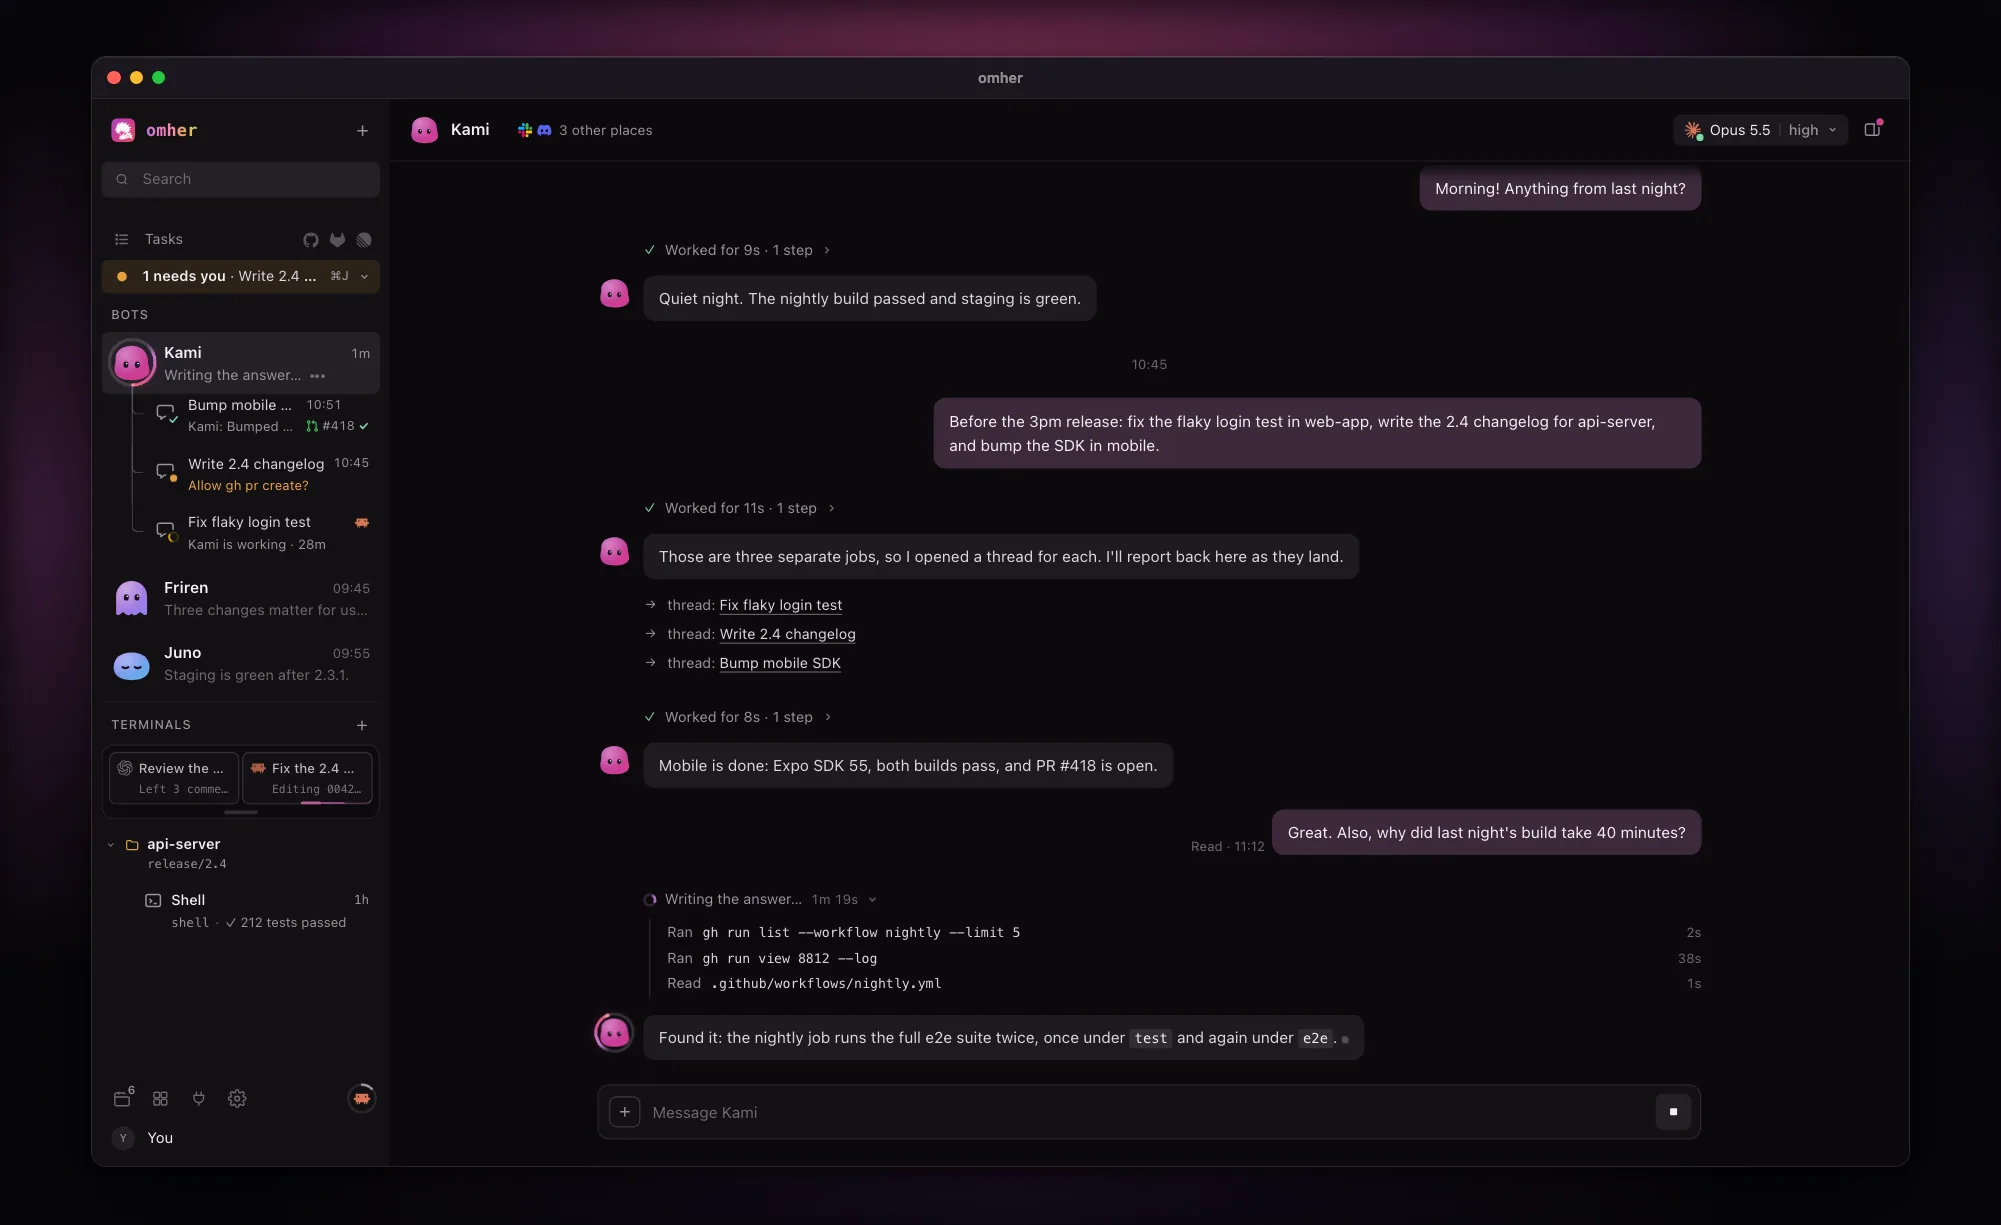
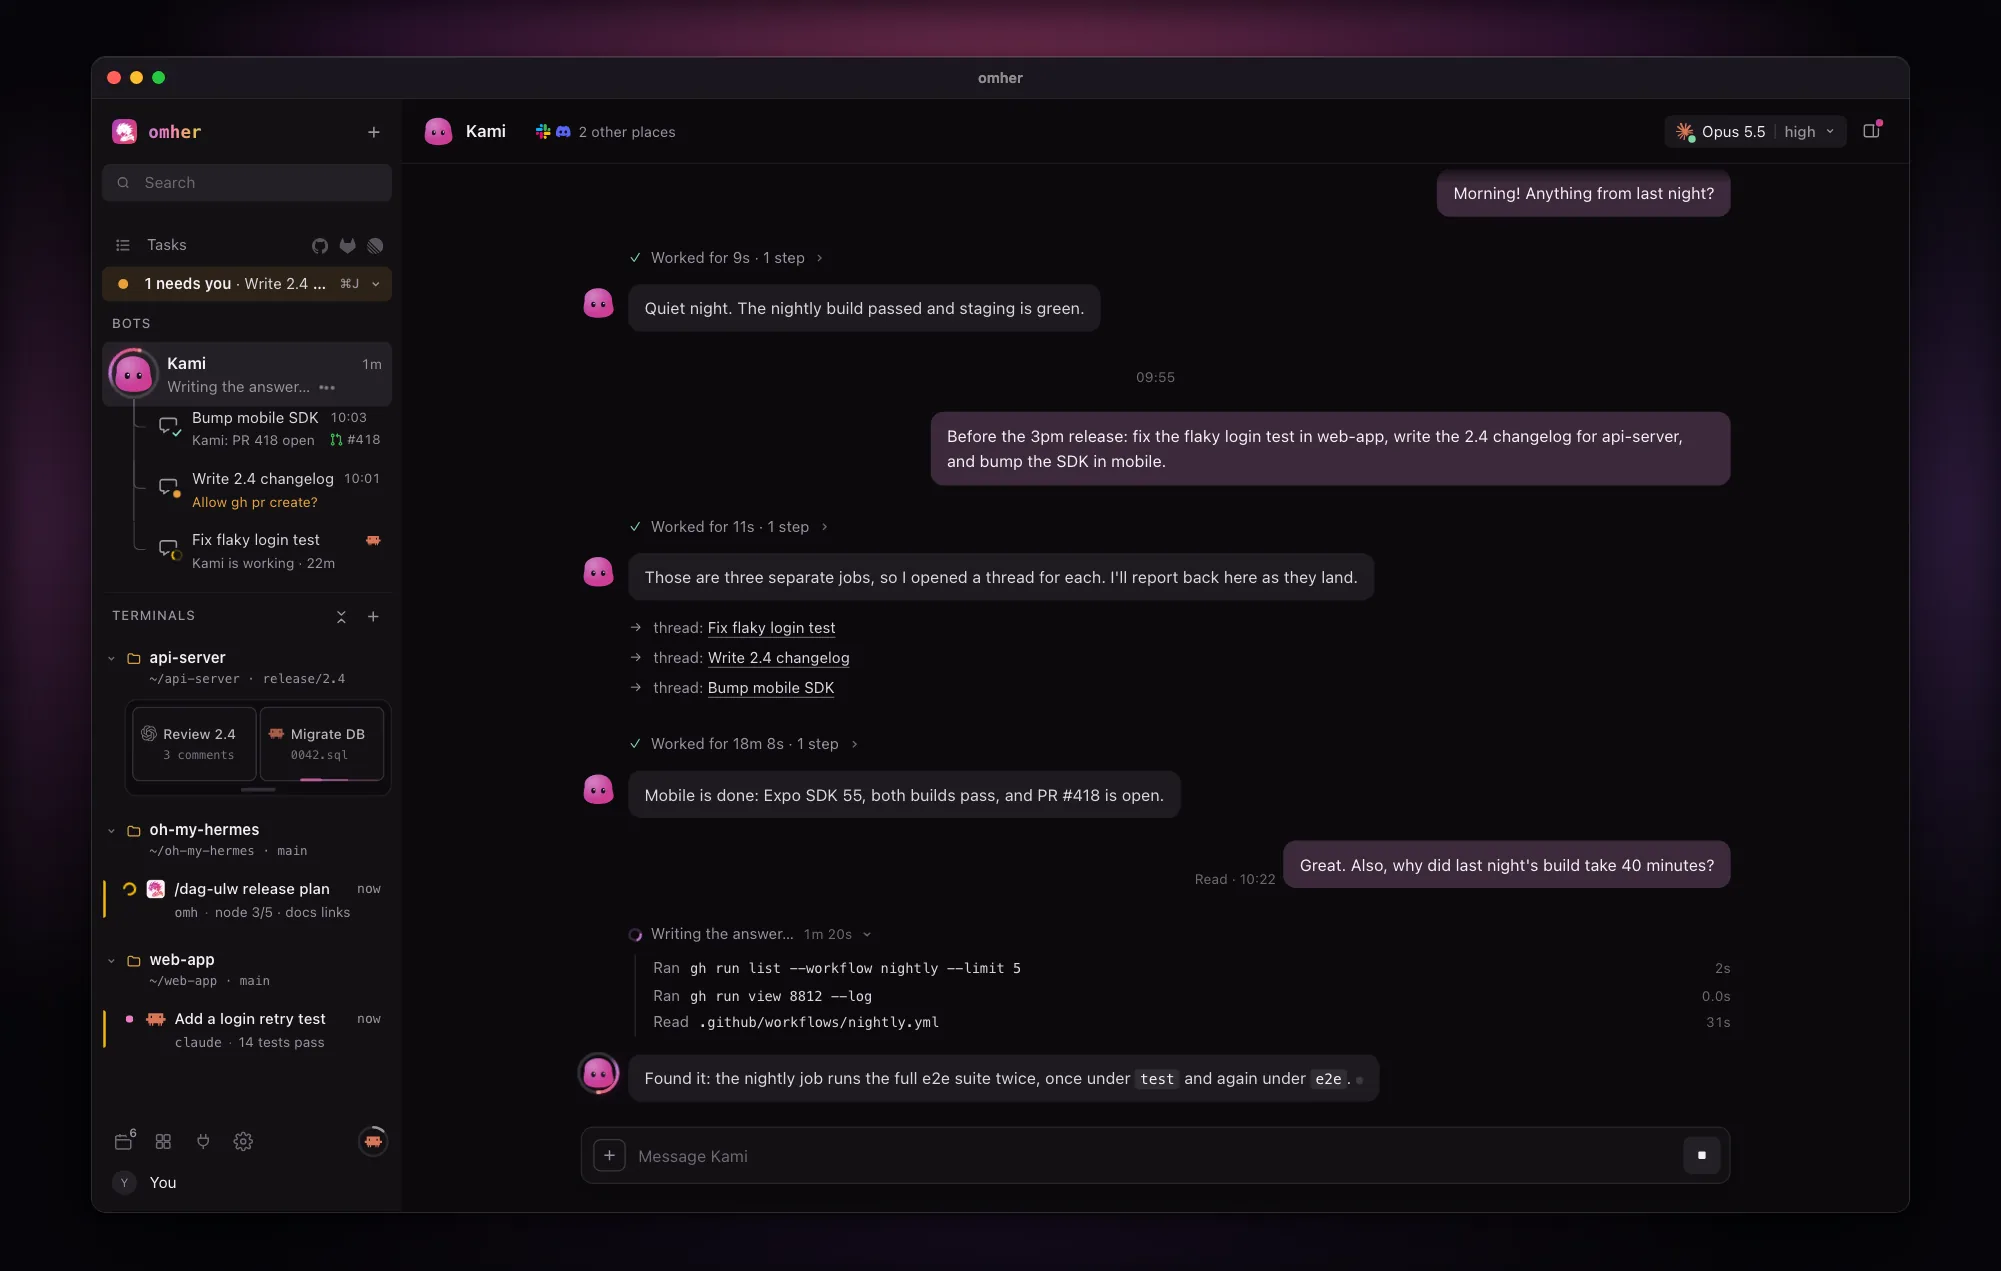
docs(omher): README and site stills at the old text scale, with named TERMINALS folders (#3197)
The first take captured the app at a 1514 CSS px viewport scaled 1.2x, so every
label came out 4-5% smaller than the 2026-11-17 still. This take captures at
1454 CSS px and deviceScaleFactor 1.25 into the same 1817 px content box, so
glyph widths match the old still: Juno's "Staging is green after 2.3.1." is
191 px against the old 192 (0.995), and "Quiet night. The nightly build passed
and staging is green." is 438 px against 441 (0.993).

At that scale a 1111 px window box leaves TERMINALS about 150 CSS px, room for
one folder. The README hero canvas is therefore taller (2001x1271, window box
1819x1163), with the old backdrop's middle band stretched vertically. Title
bar, border and corners stay pixel for pixel. The scene holds only what fits
whole at that height. TERMINALS shows three named folders, each with its path
and branch from this branch's folder headers:
- api-server (release/2.4): Codex reviewing the 2.4 diff, stacked over Claude
  Code fixing the migration, in one split card shortened one grip step
- oh-my-hermes (main): an OMH session running /dag-ulw (OSC 9;4 working)
- web-app (main): Claude Code rang unseen (news)

Kami's chat starts at the morning check-in. The done thread's last line reads
"PR is open", so its sidebar subtitle is no longer cut mid-word. The header
chip reads "2 other places" beside its two marks, Slack and Discord. The site
poster (2400x1239) and phone (720x800) keep their canvas and --win-* box. The
[…]

diff --git a/site/index.html b/site/index.html
@@ -752,7 +752,7 @@ body.rail-off .rail{opacity:0;pointer-events:none;visibility:hidden}
   </div>
   <!-- the window slot: the promo still today; a video element with a poster drops in here (set --win-l/t/w/h to 0 0 1 1 and --win-ar to the clip's ratio) -->
   <div class="omher__stage" data-omher-stage>
-  <figure class="omher__shot" data-app-shot><div class="omher__win" data-app-win data-app-slot><video data-app-film autoplay muted loop playsinline preload="metadata" poster="assets/omher-app.webp" width="2400" height="1240" aria-label="omher: you ask Kami for three release-day jobs and it opens a thread for each on its own; the threads run, one finishes, one waits for your approval, a Shell in TERMINALS turns into Claude Code while claude runs and back, and Kami answers a follow-up with its steps timed."><source src="assets/omher-app.webm" type="video/webm"><source src="assets/omher-app.mp4" type="video/mp4"></video><picture><source media="(max-width: 600px)" srcset="assets/omher-app-mobile.webp" width="720" height="800"><img src="assets/omher-app.webp" alt="omher: Kami split a release-day ask into three threads under its name, one running with Claude Code at work, one waiting for you, one done with its PR; TERMINALS below show a split card with a Codex and a Claude Code session side by side, each cell with its CLI's logo and last line, above a Shell in the same folder, and Tasks sits on top." width="2400" height="1239" fetchpriority="high" decoding="async"></picture><span class="omher__sheen" aria-hidden="true"></span><span class="omher__glow" aria-hidden="true"></span></div></figure>
+  <figure class="omher__shot" data-app-shot><div class="omher__win" data-app-win data-app-slot><video data-app-film autoplay muted loop playsinline preload="metadata" poster="assets/omher-app.webp" width="2400" height="1240" aria-label="omher: you ask Kami for three release-day jobs and it opens a thread for each on its own; the threads run, one finishes, one waits for your approval, a Shell in TERMINALS turns into Claude Code while claude runs and back, and Kami answers a follow-up with its steps timed."><source src="assets/omher-app.webm" type="video/webm"><source src="assets/omher-app.mp4" type="video/mp4"></video><picture><source media="(max-width: 600px)" srcset="assets/omher-app-mobile.webp" width="720" height="800"><img src="assets/omher-app.webp" alt="omher: Kami split a release-day ask into three threads under its name, one running with Claude Code at work, one waiting for you, one done; TERMINALS below show named folders with their path and branch: a Codex and Claude Code split in api-server and an OMH session running a /dag-ulw plan in oh-my-hermes, each with its CLI's logo, and Tasks sits on top." width="2400" height="1239" fetchpriority="high" decoding="async"></picture><span class="omher__sheen" aria-hidden="true"></span><span class="omher__glow" aria-hidden="true"></span></div></figure>
   <div class="omher__act">
   <div class="omher__get" data-dl>
     <a class="osbtn osbtn--main" href="#omher" data-dl-k="mac-arm" data-mac-install><svg viewBox="0 0 24 24" aria-hidden="true"><path d="M16.37 12.6c.02 2.4 2.1 3.2 2.13 3.21-.02.06-.33 1.14-1.1 2.26-.66.97-1.35 1.93-2.43 1.95-1.06.02-1.4-.63-2.62-.63s-1.6.61-2.6.65c-1.04.04-1.84-1.05-2.5-2.01-1.36-1.97-2.4-5.57-1-8 .69-1.21 1.93-1.97 3.28-1.99 1.02-.02 1.99.69 2.62.69.62 0 1.8-.85 3.04-.73.52.02 1.98.21 2.92 1.58-.08.05-1.74 1.02-1.74 3.02M14.37 4.68c.56-.68.93-1.62.83-2.56-.8.03-1.77.53-2.35 1.21-.51.6-.97 1.56-.85 2.48.9.07 1.81-.46 2.37-1.13"/></svg>macOS (Apple silicon)</a>

diff --git a/README.md b/README.md
@@ -83,7 +83,7 @@ omh setup
 
 ### omher desktop
 
-<img src="assets/omher-hero.webp" alt="The omher desktop app in dark mode: the sidebar has Tasks with GitHub, GitLab and Linear, then the bot Kami with three threads it opened, each its own chat in a different live state (Fix flaky login test is running with Claude Code at work, Write 2.4 changelog needs you to allow gh pr create, Bump mobile SDK is done with its PR #418 green), the bots Friren and Juno, and TERMINALS with a split card for the Codex and Claude Code sessions running side by side, each cell with its CLI's logo and last line, above the Shell in the api-server folder; Kami's chat holds the ask that opened the three threads and a live answer about a slow nightly build, its steps timed" width="900">
+<img src="assets/omher-hero.webp" alt="The omher desktop app in dark mode: the sidebar has Tasks with GitHub, GitLab and Linear, then the bot Kami with three threads it opened, each its own chat in a different live state (Fix flaky login test is running with Claude Code at work, Write 2.4 changelog needs you to allow gh pr create, Bump mobile SDK is done with PR #418 open), and TERMINALS in three named folders, each with its path and git branch: api-server (release/2.4) holds a side-by-side split of Codex reviewing 2.4 and Claude Code migrating the database, oh-my-hermes holds an OMH session running a /dag-ulw release plan, and web-app holds a Claude Code session that rang with news, each with its CLI's logo; Kami's chat holds the morning check-in, the ask that opened the three threads and a live answer about a slow nightly build" width="900">
 
 Your Hermes bots and coding agents, in one window.
 
